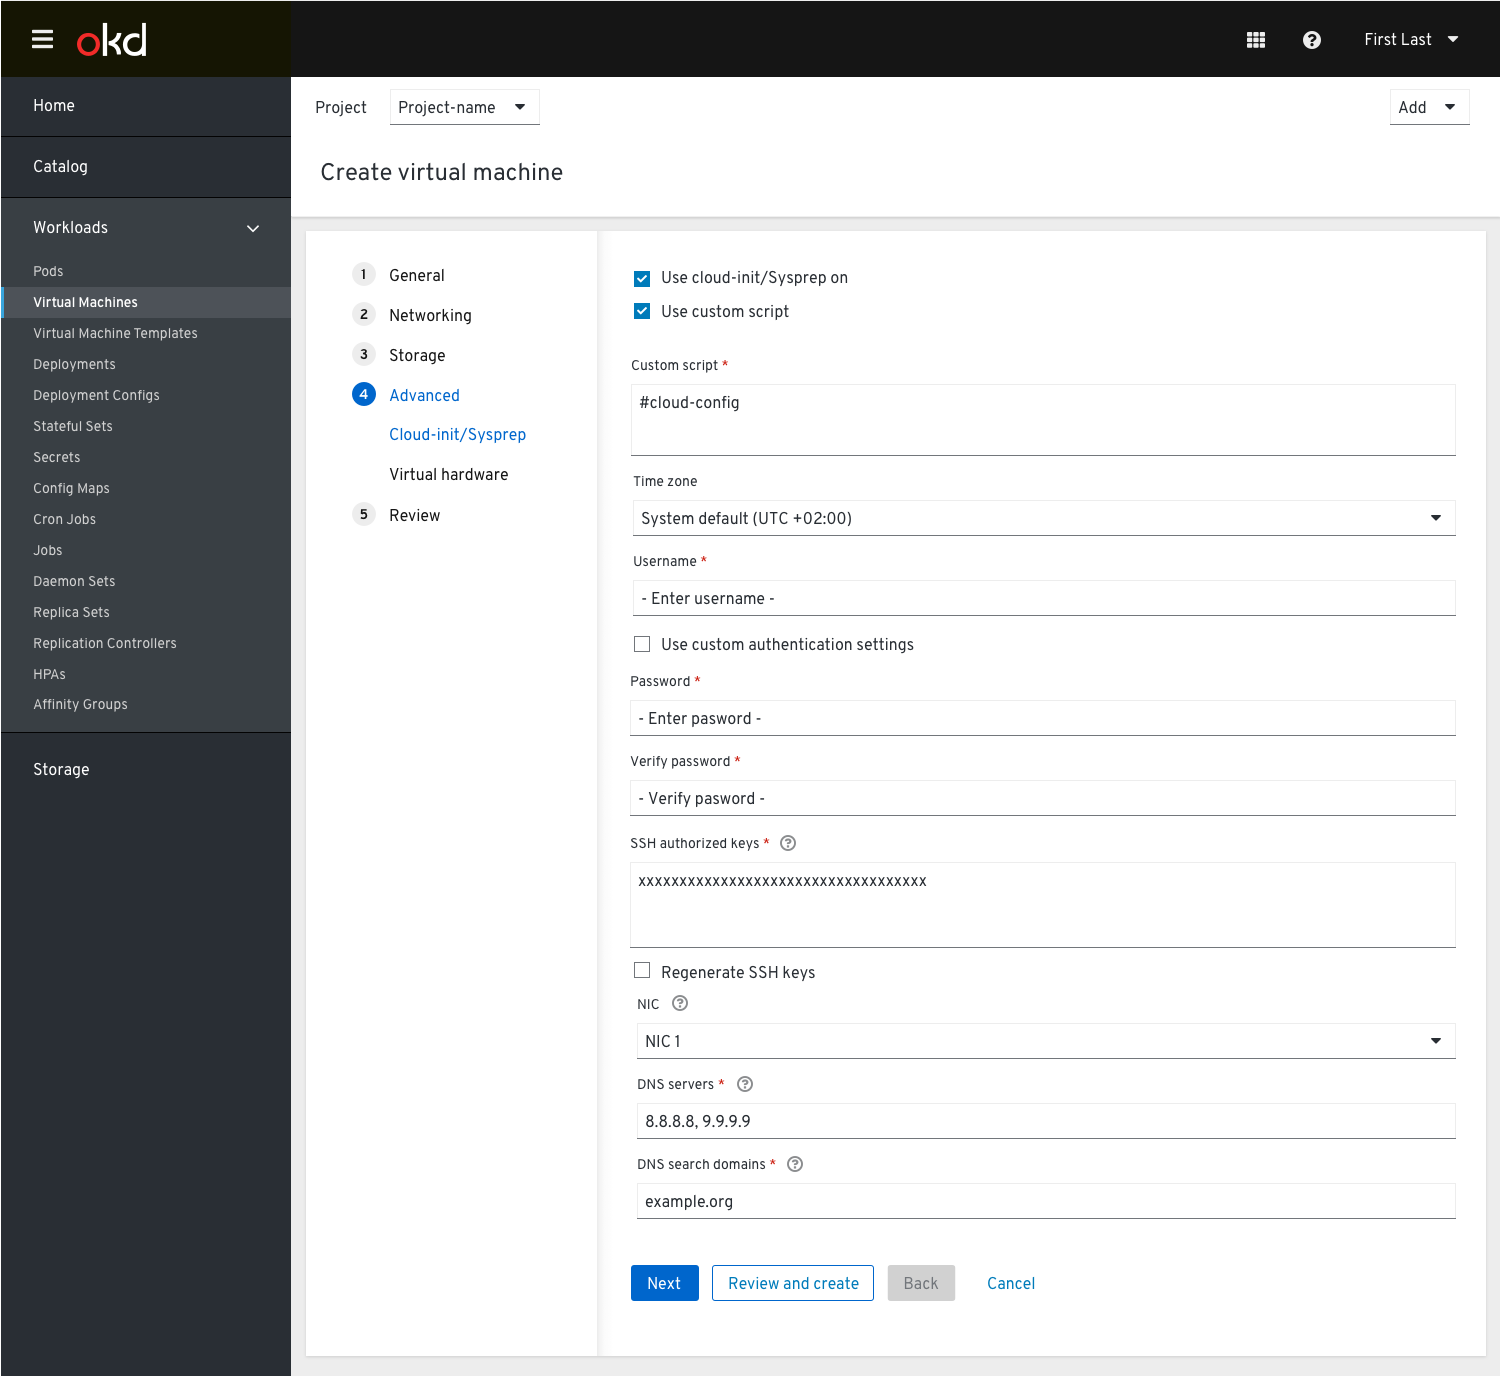
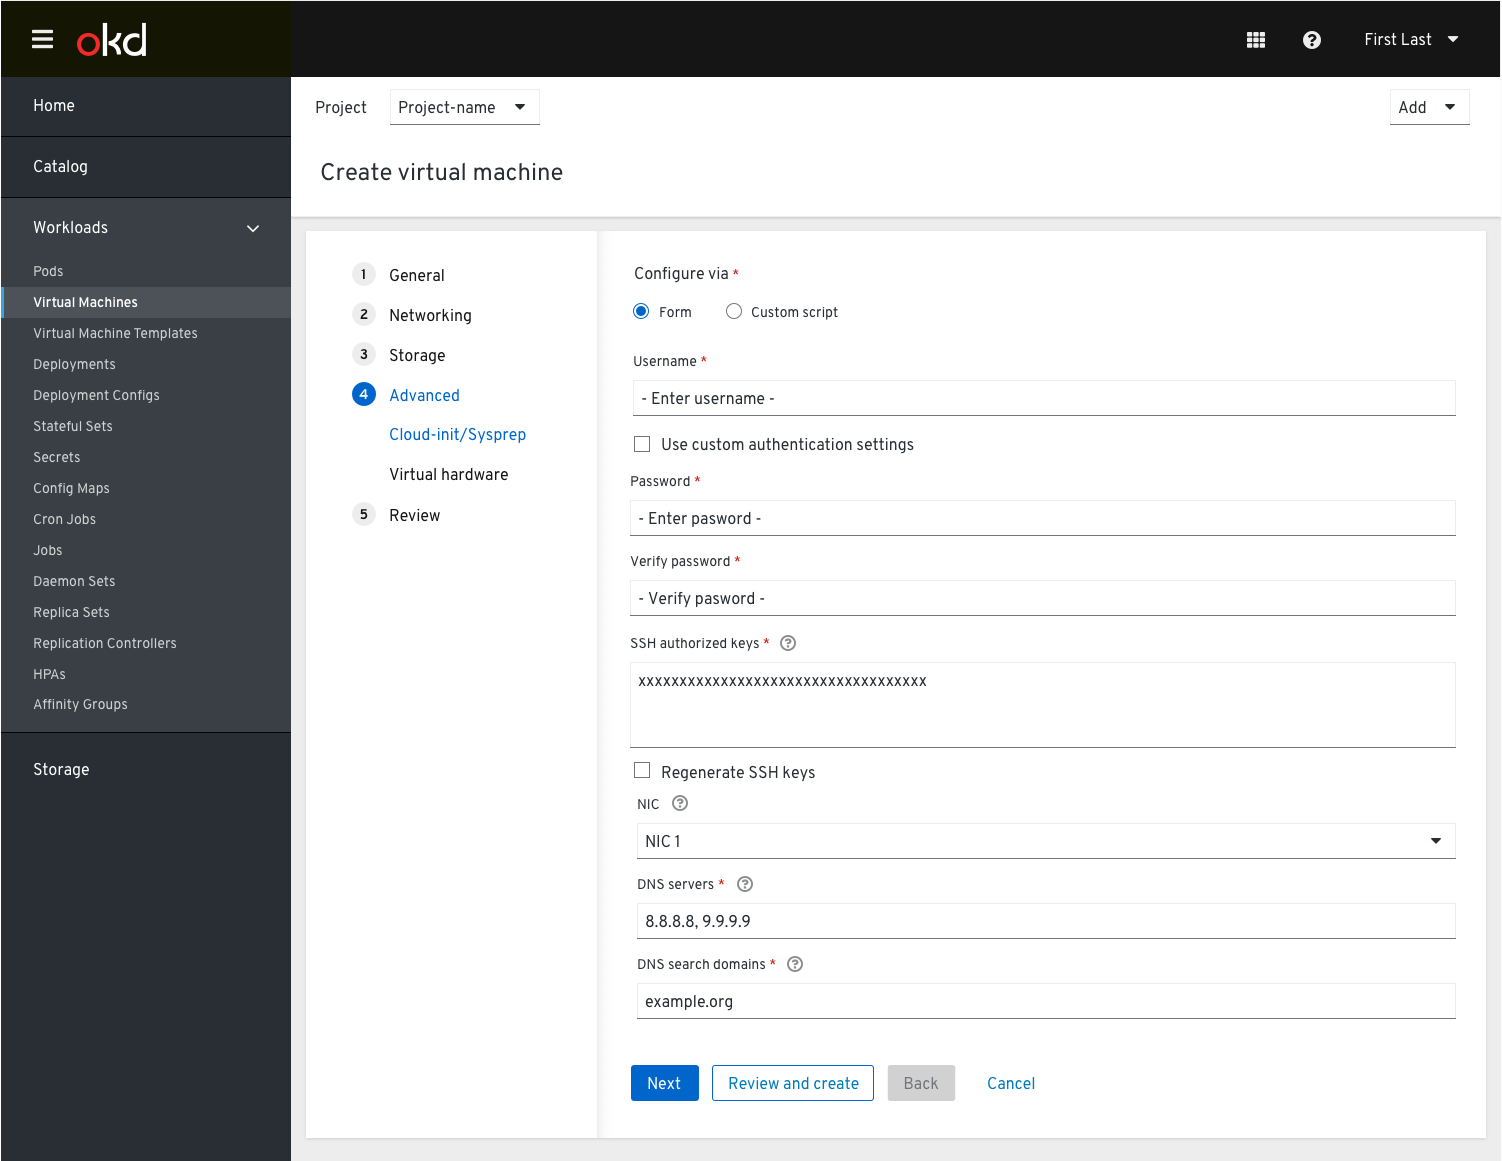
adding radio buttons to choose configuration

diff --git a/web-console/knikubevirt/Create-vm/step-4-advanced/wizard-advanced.md b/web-console/knikubevirt/Create-vm/step-4-advanced/wizard-advanced.md
@@ -9,7 +9,10 @@ The “Advanced” setting step of the create VM wizard includes:
 
 ### Cloud-Init / Sysprep
 
-The user chooses the "Use cloud-init/Sysprep" checkbox at the top of the form and sees the settings.
+The user has 2 options (radio buttons to choose from) to configure the "cloud-init/Sysprep" settings:
+
+1. by filling a form (default)
+2. by writing a custom script
 
 - SSH Authorized Keys: Enter a comma-separated list of public SSH keys that can be used for authentication.
 - NIC: Select the NIC that should communicate with the DNS servers.
@@ -18,8 +21,11 @@ The user chooses the "Use cloud-init/Sysprep" checkbox at the top of the form an
 
 ![empty form](img/form-empty.png)
 
-The user checks the “Use Cloud-Init/Sysprep” checkbox in order to enable and fill out the fields below.
+By the default the user fills out the fields in the form
 ![user fills form](img/ssh-keys.png)
+
+In case the user chooses to use a custom script
+![user writes custom script](img/customscript.png)
 
 ### Virtual hardware
 
